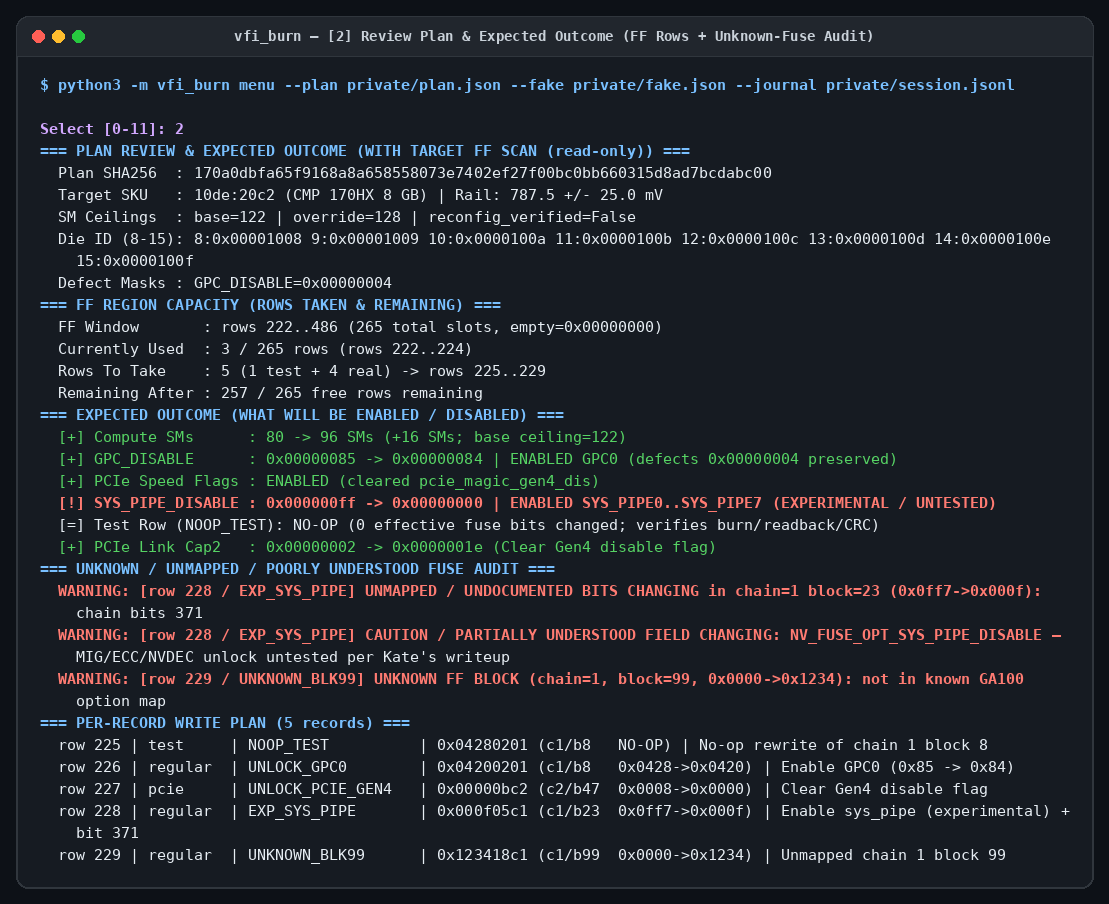
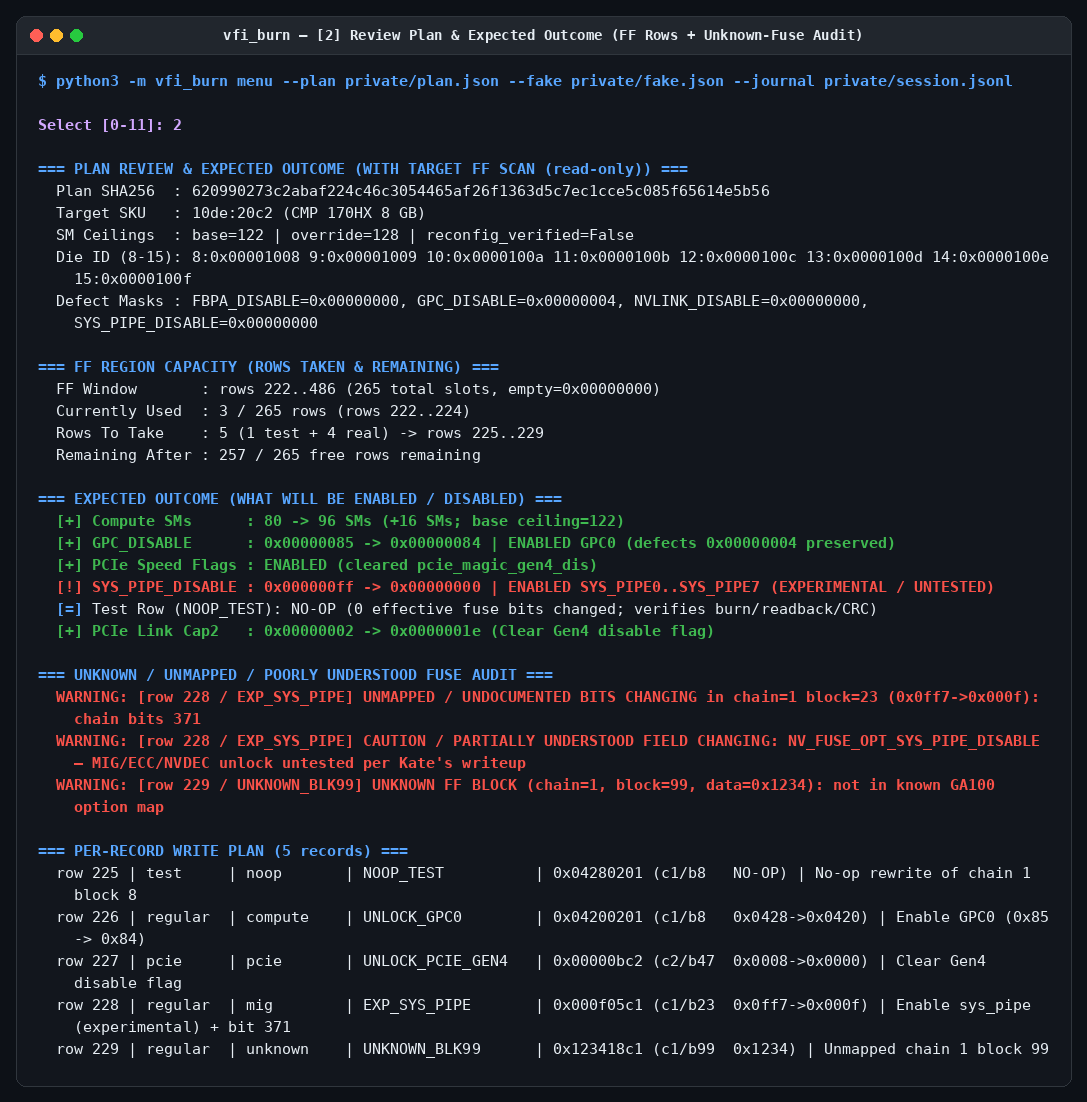
Regenerate walkthrough screenshots for unified [6] Burn Plan menu

Changed region(s): [[0.0304, 0.0, 0.9715, 0.9912]]

diff --git a/docs/menu_driven.md b/docs/menu_driven.md
@@ -58,7 +58,7 @@ The menu wraps every CLI workflow with the exact same safety gates, `fsync`ed JS
 
 ## Walkthrough Screenshots (Offline Simulation Mode)
 
-> All screenshots below were captured offline against synthetic fixtures (no physical GPU contacted). Note that the captured screenshots show an earlier menu layout before `[6]`/`[7]` were unified into a single `[6] Burn Plan` and `[11] Experimental Registers` was added.
+> All screenshots below were captured offline against synthetic fixtures (no physical GPU contacted).
 
 ### 1. Main Menu & Live Status Header
 ![vfi_burn Main Interactive Menu](screenshots/01-main-menu.png)
